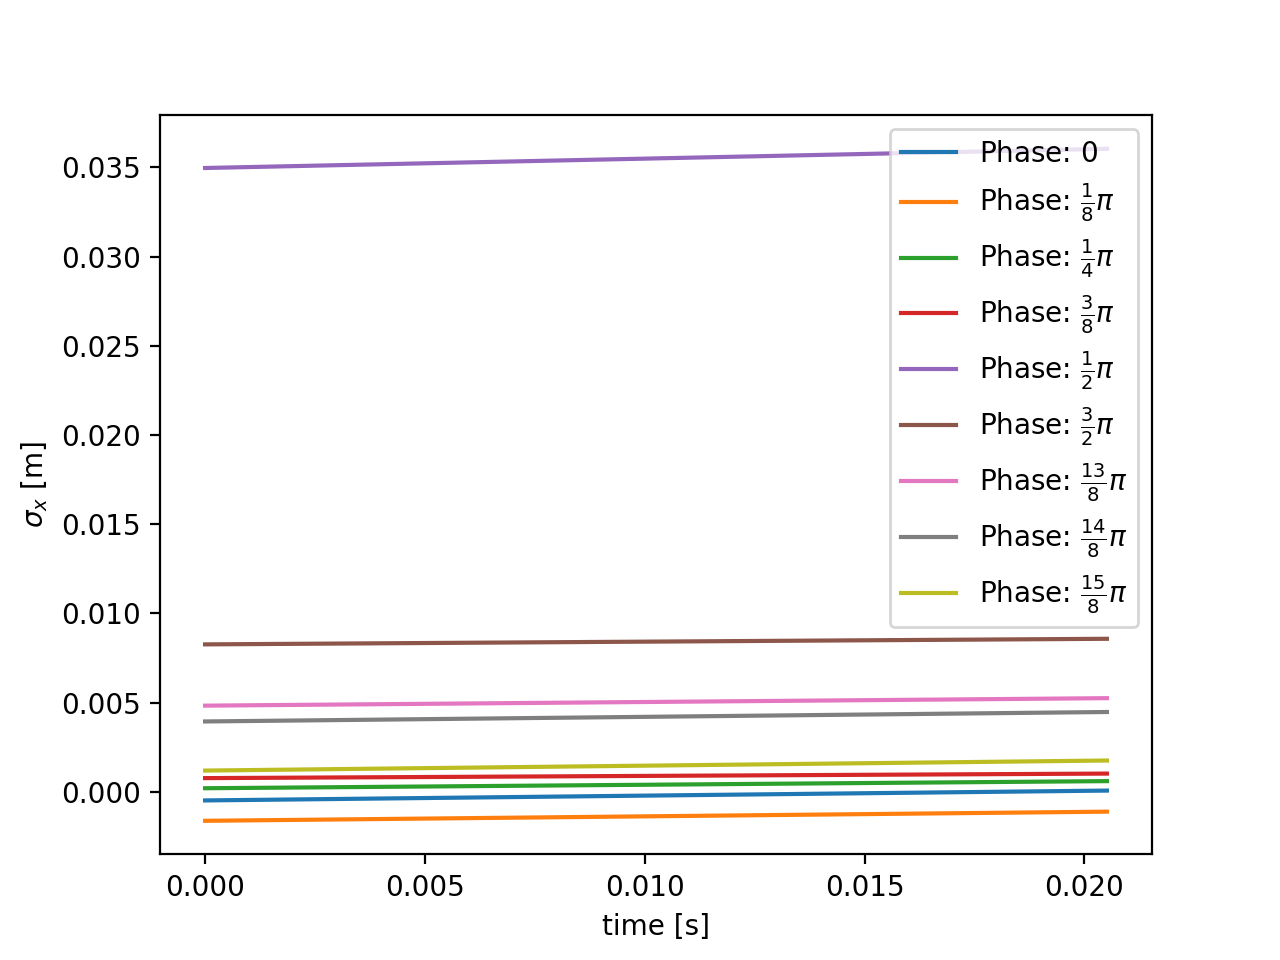
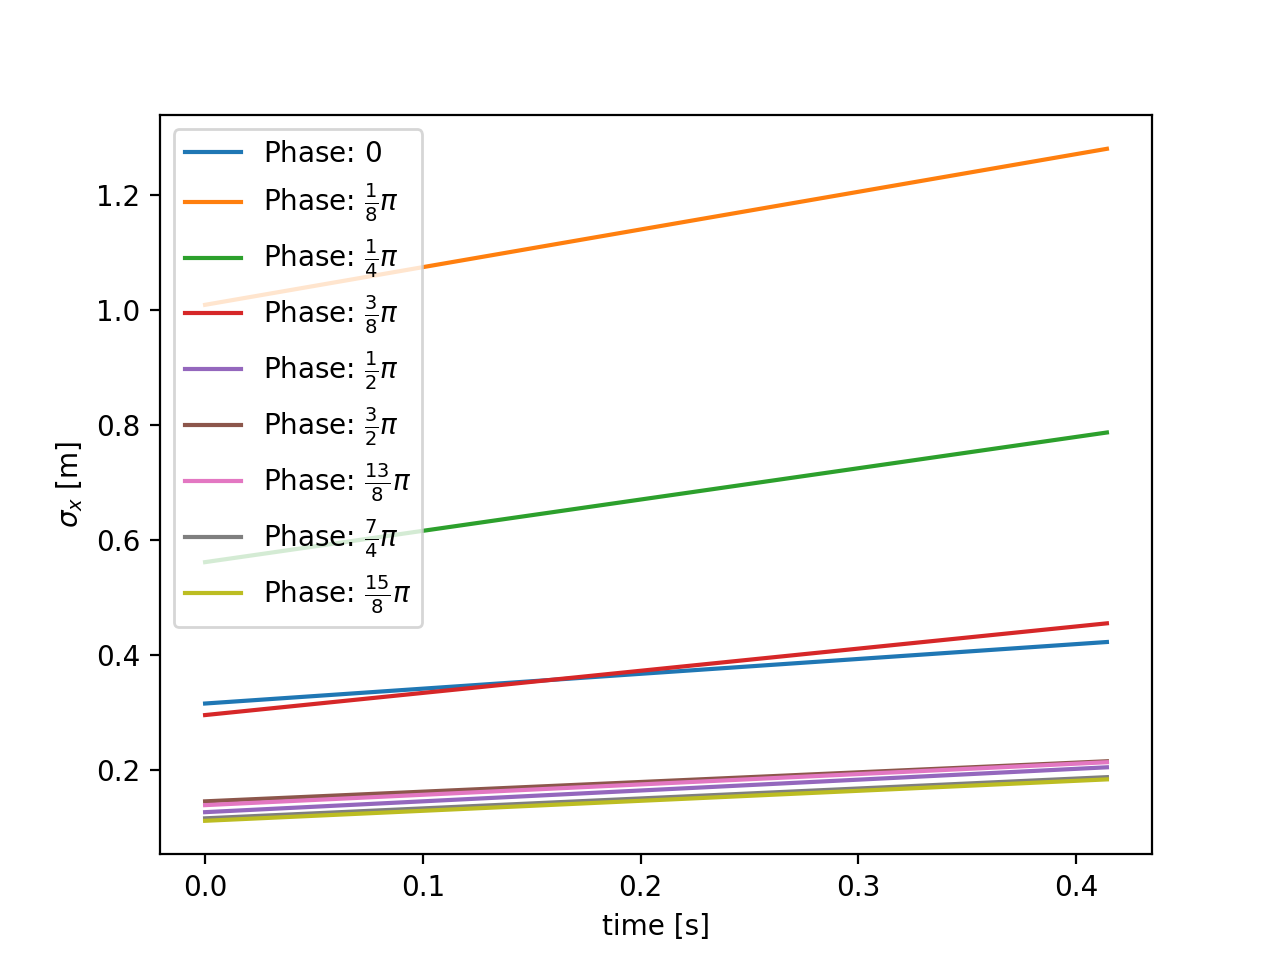
Phases analysed

diff --git a/Project/analyse_phase.py b/Project/analyse_phase.py
@@ -2,7 +2,6 @@ import log
 import numpy as np
 import scipy.constants as const
 import matplotlib.pyplot as plt
-from mpl_toolkits.axes_grid1.inset_locator import (inset_axes,InsetPosition,mark_inset)
 import copy
 from EMField import EMField
 from ProtonBunch import ProtonBunch
@@ -11,7 +10,7 @@ phase_keys = [
     r'$0$', r'$\frac{1}{8} \pi$', r'$\frac{1}{4} \pi$', r'$\frac{3}{8} \pi$',
     r'$\frac{1}{2} \pi$', r'$\frac{5}{8} \pi$', r'$\frac{3}{4} \pi$', r'$\frac{7}{8} \pi$',
     r'$\pi$', r'$\frac{9}{8} \pi$', r'$\frac{5}{4} \pi$', r'$\frac{11}{8} \pi$',
-    r'$\frac{3}{2} \pi$', r'$\frac{13}{8} \pi$', r'$\frac{14}{8} \pi$', r'$\frac{15}{8} \pi$'
+    r'$\frac{3}{2} \pi$', r'$\frac{13}{8} \pi$', r'$\frac{7}{4} \pi$', r'$\frac{15}{8} \pi$'
 ]
 phase_values = [i*np.pi/8 for i in range(0,16)]
 phase_dict = {phase_keys[i]:phase_values[i] for i in range(len(phase_keys)) if np.cos(phase_values[i])>=-0.00001}
@@ -39,7 +38,7 @@ def generate_file(phases):
         log.logger.info('phase currently being investigated: %s radians' % angle)
         while time <= duration:
             time += deltaT
-            if angle == phases[0]: # only save data to the time series on the final iteration
+            if angle == phases[0]: # only save data to the time series on the first iteration
                 timeSeries.append(time)
             field.getAcceleration(protons.bunch, time, deltaT)
             protons.update(deltaT,field,time)
@@ -62,8 +61,6 @@ except FileNotFoundError:
 timeSeries = simulation_data['time']
 positions = simulation_data['positions']
 energies = simulation_data['energies']
-
-revolutions = np.linspace(0,round(timeSeries[-1]/0.0041),len(timeSeries))
 
 plt.figure('Phase Position Spreads')
 for (i,phase) in zip(positions,phase_dict.keys()):
@@ -105,8 +102,8 @@ plt.figure('Phases')
 theta = np.linspace(0,2*np.pi,10000)
 cosine = [np.cos(x) for x in theta]
 phase_points = [np.cos(x) for x in phases]
-plt.plot(theta, cosine, label=r'$cos(\theta)$', color='red',)
-plt.scatter(phases, phase_points, label='Electric field phases',color='black')
+plt.plot(theta, cosine, label=r'$cos(\theta)$', color='red',zorder=1)
+plt.scatter(phases, phase_points, label='Electric field phases',color='black',zorder=10)
 plt.xlabel(r'$\theta$ (radians)')
 plt.legend()
 
